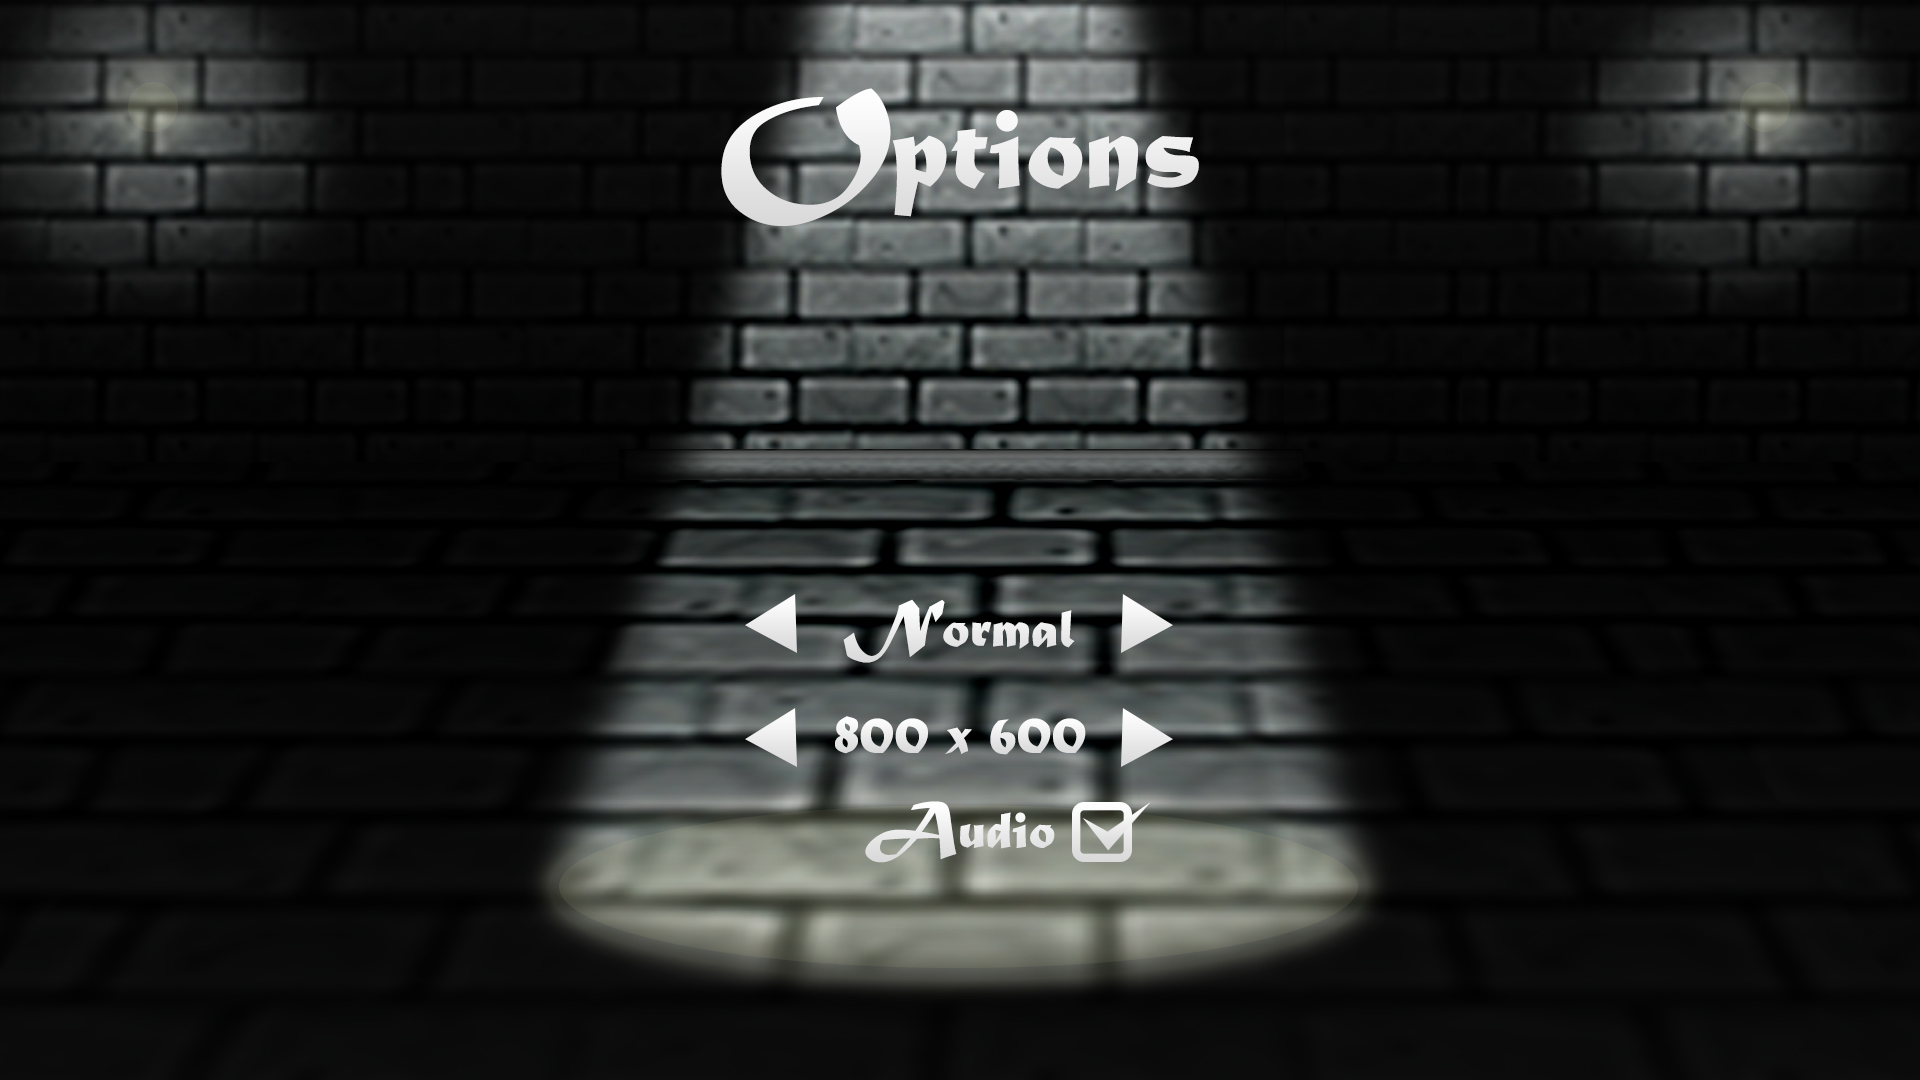
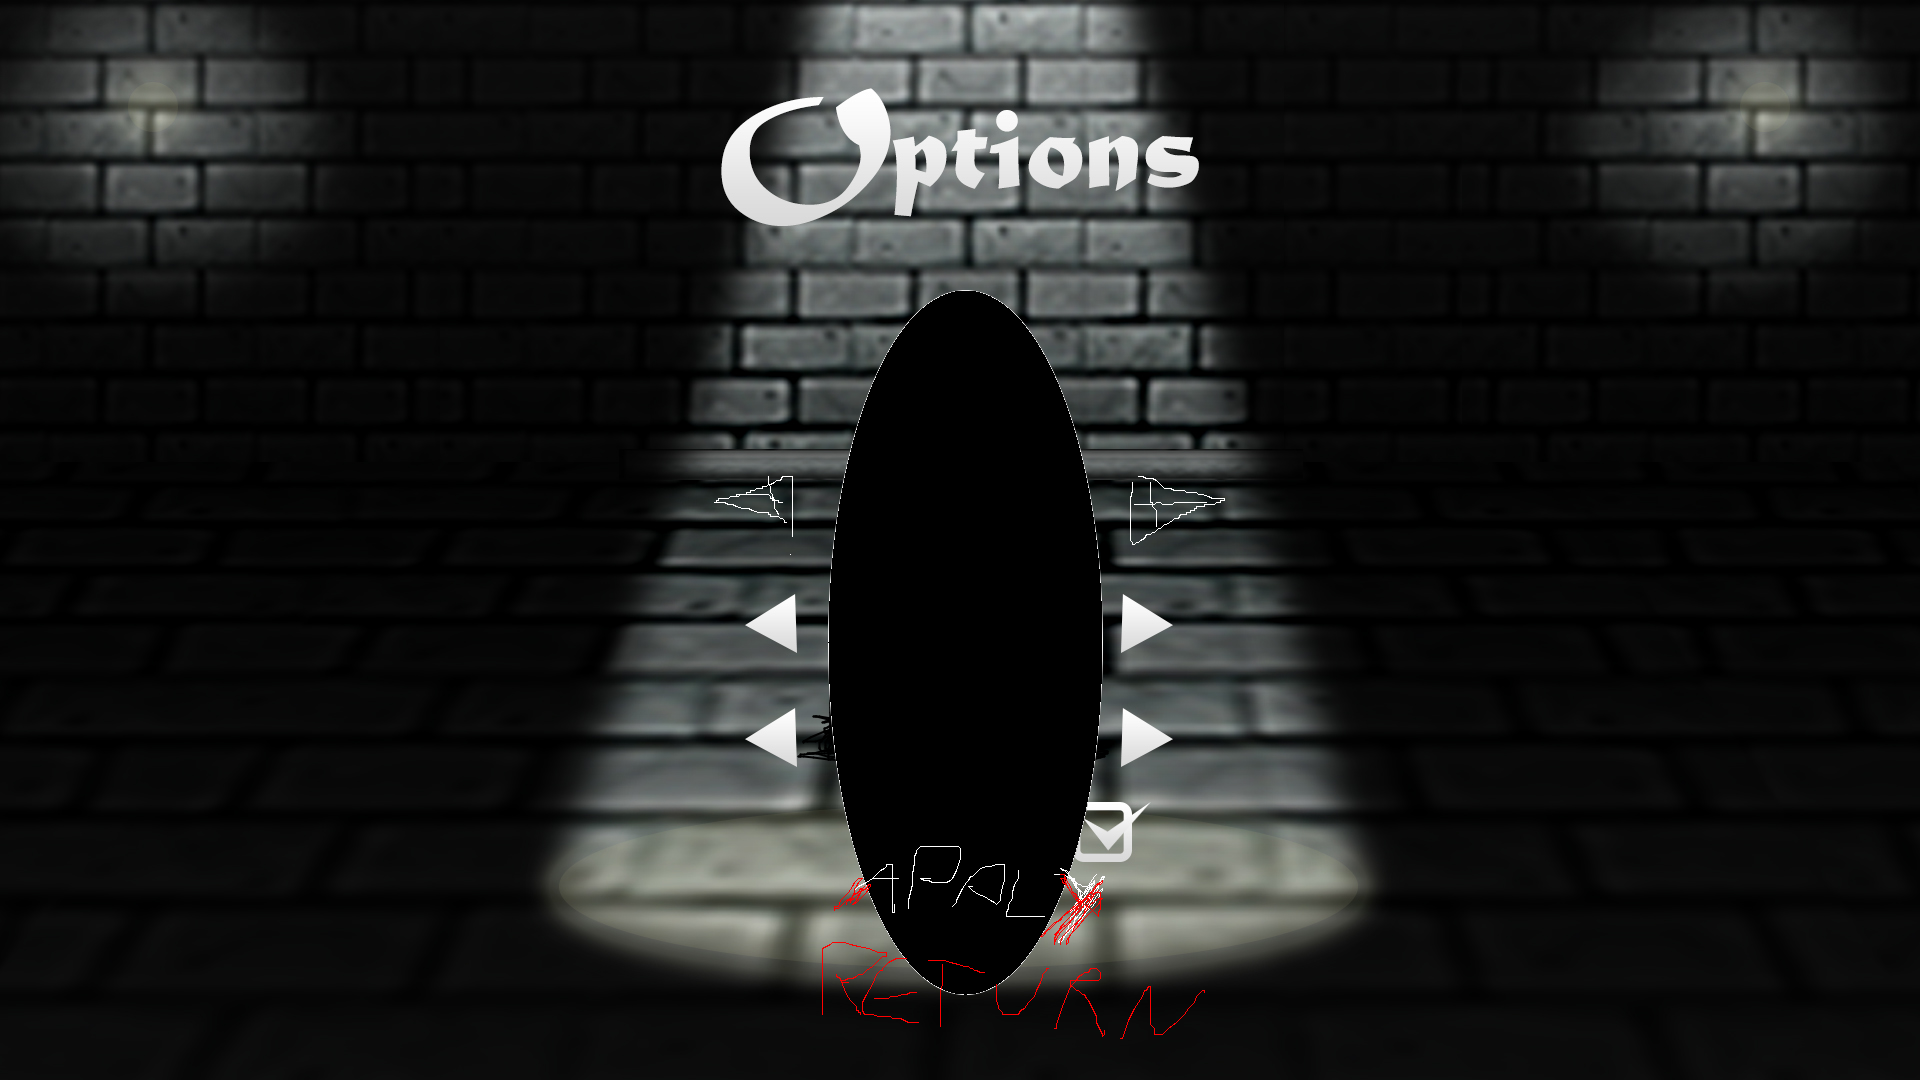
Improving options menu

Changed region(s): [[0.4062, 0.275, 0.5938, 0.9167]]

diff --git a/src/GStateOptions.cpp b/src/GStateOptions.cpp
@@ -6,10 +6,15 @@
 
 GStateOptions::GStateOptions() :
 	elapsedTime(0.0),
-	optionsImage(nullptr)
+	optionsImage(nullptr),
+	currentResolution(R_800_600),
+	currentOption(O_RESOLUTION),
+	selector(nullptr),
+	selectorXPositionLeft  {590, 590, 590, 590, 590},
+	selectorYPositionLeft  {380, 460, 540, 620, 700},
+	selectorXPositionRight {900, 900, 900, 900, 900},
+	selectorYPositionRight {380, 460, 540, 620, 700}
 {
-	this->currentResolution = R_800_600;
-
 	for(unsigned int i = 0; i < R_TOTAL; i++){
 		this->resolutions[i] = nullptr;
 	}
@@ -23,44 +28,93 @@ void GStateOptions::update(const double dt_){
 	this->elapsedTime += dt_;
 
 	std::array<bool, GameKeys::MAX> keyStates = Game::instance().getInput();
-	if(keyStates[GameKeys::LATTACK] == true){
-		Game::instance().setState(Game::GStates::MENU);
-	}
 
 	const double selectorDelayTime = 0.2;
 
-	if(keyStates[GameKeys::LEFT] == true){
+	if(keyStates[GameKeys::DOWN] == true){
 		if(this->elapsedTime >= selectorDelayTime){
-			if(this->currentResolution == R_800_600){
-				this->currentResolution = (R_TOTAL - 1);
+			if(this->currentOption == (O_TOTAL - 1)){
+				this->currentOption = O_RESOLUTION;
 			}
 			else{
-				this->currentResolution--;
+				this->currentOption++;
 			}
+			this->elapsedTime = 0.0;
+		}
+	}
+
+	if(keyStates[GameKeys::UP] == true){
+		if(this->elapsedTime >= selectorDelayTime){
+			if(this->currentOption == O_RESOLUTION){
+				this->currentOption = (O_TOTAL - 1);
+			}
+			else{
+				this->currentOption--;
+			}
+			this->elapsedTime = 0.0;
+		}
+	}
+
+	if(keyStates[GameKeys::LEFT] == true){
+		if(this->elapsedTime >= selectorDelayTime){
+			// Option == Resolution
+			if(this->currentOption == O_RESOLUTION){
+				if(this->currentResolution == R_800_600){
+					this->currentResolution = (R_TOTAL - 1);
+				}
+				else{
+					this->currentResolution--;
+				}
+			}
+			// Option == VOLUME MUSIC
+			else if(this->currentOption == O_VOLUME_MUSIC){
+
+			}
+			// Option == VOLUME SFX
+			else if(this->currentOption == O_VOLUME_SFX){
+
+			}
+			else {
+
+			}
+
 			this->elapsedTime = 0.0;
 		}
 	}
 
 	if(keyStates[GameKeys::RIGHT] == true){
 		if(this->elapsedTime >= selectorDelayTime){
-			if(this->currentResolution == (R_TOTAL - 1)){
-				this->currentResolution = R_800_600;
+			// Option == Resolution
+			if(this->currentOption == O_RESOLUTION){
+				if(this->currentResolution == (R_TOTAL - 1)){
+					this->currentResolution = R_800_600;
+				}
+				else{
+					this->currentResolution++;
+				}
 			}
-			else{
-				this->currentResolution++;
+			// Option == VOLUME MUSIC
+			else if(this->currentOption == O_VOLUME_MUSIC){
+
 			}
+			// Option == VOLUME SFX
+			else if(this->currentOption == O_VOLUME_SFX){
+
+			}
+			else {
+
+			}
+
 			this->elapsedTime = 0.0;
 		}
 	}
 
-	if(keyStates[GameKeys::SPACE] == true){
-		if(this->currentResolution == R_800_600){
-			Game::instance().resizeWindow(800, 600);
-		}
-		else if(this->currentResolution == R_960_540){
-			Game::instance().resizeWindow(960, 540);
-		}
-		
+	if(keyStates[GameKeys::SPACE] == true && this->currentOption == O_APPLY){
+		applyOptions();
+	}
+
+	if(keyStates[GameKeys::SPACE] == true && this->currentOption == O_RETURN){
+		Game::instance().setState(Game::GStates::MENU);
 	}
 }
 
@@ -73,11 +127,23 @@ void GStateOptions::render(){
 	}
 
 	if(this->resolutions[this->currentResolution] != nullptr){
-		this->resolutions[this->currentResolution]->render(0, 0);
+		this->resolutions[this->currentResolution]->render(650, 400);
 	}
 	else{
 		Log(WARN) << "No image set for the current resolution!";
 	}
+
+	if(this->selector != nullptr){
+		this->selector->render(selectorXPositionLeft[currentOption],
+			selectorYPositionLeft[currentOption], nullptr, false, 0.0, nullptr, SDL_FLIP_NONE);
+
+		this->selector->render(selectorXPositionRight[currentOption],
+			selectorYPositionRight[currentOption], nullptr, false, 0.0, nullptr, SDL_FLIP_HORIZONTAL);
+	}
+	else{
+		Log(WARN) << "No image set for the selector.";
+	}
+
 }
 
 void GStateOptions::load(){
@@ -85,14 +151,42 @@ void GStateOptions::load(){
 
 	LuaScript luaOptions("lua/Options.lua");
 	const std::string pathOptions = luaOptions.unlua_get<std::string>("options.images.dummy");
+	const std::string pathCursor = luaOptions.unlua_get<std::string>("options.images.cursor");
+
+	this->currentResolution = R_800_600;
+	this->currentOption = O_RESOLUTION;
 	
     this->optionsImage = Game::instance().getResources().get(pathOptions);
+    this->selector = Game::instance().getResources().get(pathCursor);
+
+    this->selector->setWidth(50);
 
     this->resolutions[R_800_600] = Game::instance().getResources().get("res/images/800x600.png");
+    this->resolutions[R_768_432] = Game::instance().getResources().get("res/images/768x432.png");
     this->resolutions[R_960_540] = Game::instance().getResources().get("res/images/960x540.png");
 }
 
 void GStateOptions::unload(){
 	Log(DEBUG) << "\tUnloading options...";
 	cleanEntities();
+}
+
+void GStateOptions::applyOptions(){
+	// Apply resolution
+	if(this->currentResolution == R_800_600){
+		Game::instance().resizeWindow(800, 600);
+	}
+	else if(this->currentResolution == R_768_432){
+		Game::instance().resizeWindow(768, 432);
+	}
+	else if(this->currentResolution == R_960_540){
+		Game::instance().resizeWindow(960, 540);
+	}
+
+	// Apply volume music
+	Game::instance().getAudioHandler().setMusicVolume(100);
+
+	// Apply volume sfx
+	Game::instance().getAudioHandler().setEffectVolume(100);
+
 }

diff --git a/include/GStateOptions.h b/include/GStateOptions.h
@@ -48,18 +48,37 @@ class GStateOptions : public StateGame {
 		virtual void render();
 
 	private:
+		void applyOptions();
+
+		double elapsedTime;
+
+		enum Option : uint8_t {
+			O_RESOLUTION = 0,
+			O_VOLUME_MUSIC,
+			O_VOLUME_SFX,
+			O_APPLY,
+			O_RETURN,
+			O_TOTAL
+		};
+
 		enum Resolution : uint8_t {
 			R_800_600 = 0,
+			R_768_432,
 			R_960_540,
 			R_TOTAL
 		};
-
-		double elapsedTime;
 
 		Sprite* resolutions[R_TOTAL];
 		Sprite* optionsImage; /**< The image shown on the menu. */
 
 		uint8_t currentResolution;
+		uint8_t currentOption;
+
+		Sprite* selector; /**< The selector shown on the menu. */
+		int selectorXPositionLeft[Option::O_TOTAL]; /**< The X position of the left selector.. */
+		int selectorYPositionLeft[Option::O_TOTAL]; /**< The Y position of the left selector.. */
+		int selectorXPositionRight[Option::O_TOTAL]; /**< The X position of the left selector.. */
+		int selectorYPositionRight[Option::O_TOTAL]; /**< The Y position of the left selector.. */
 
 };
 
